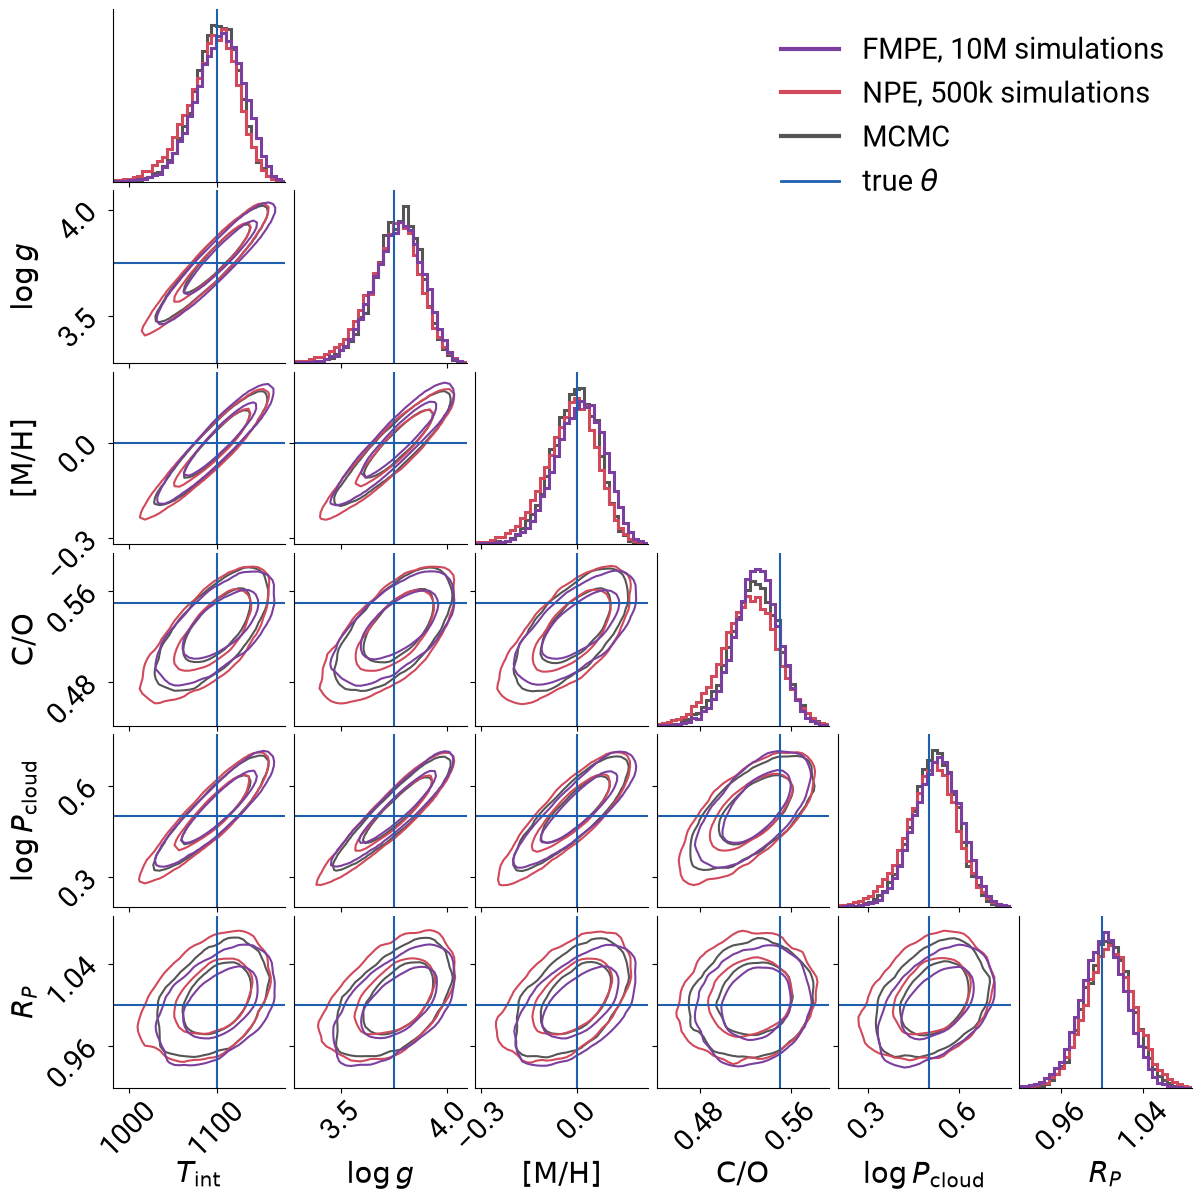
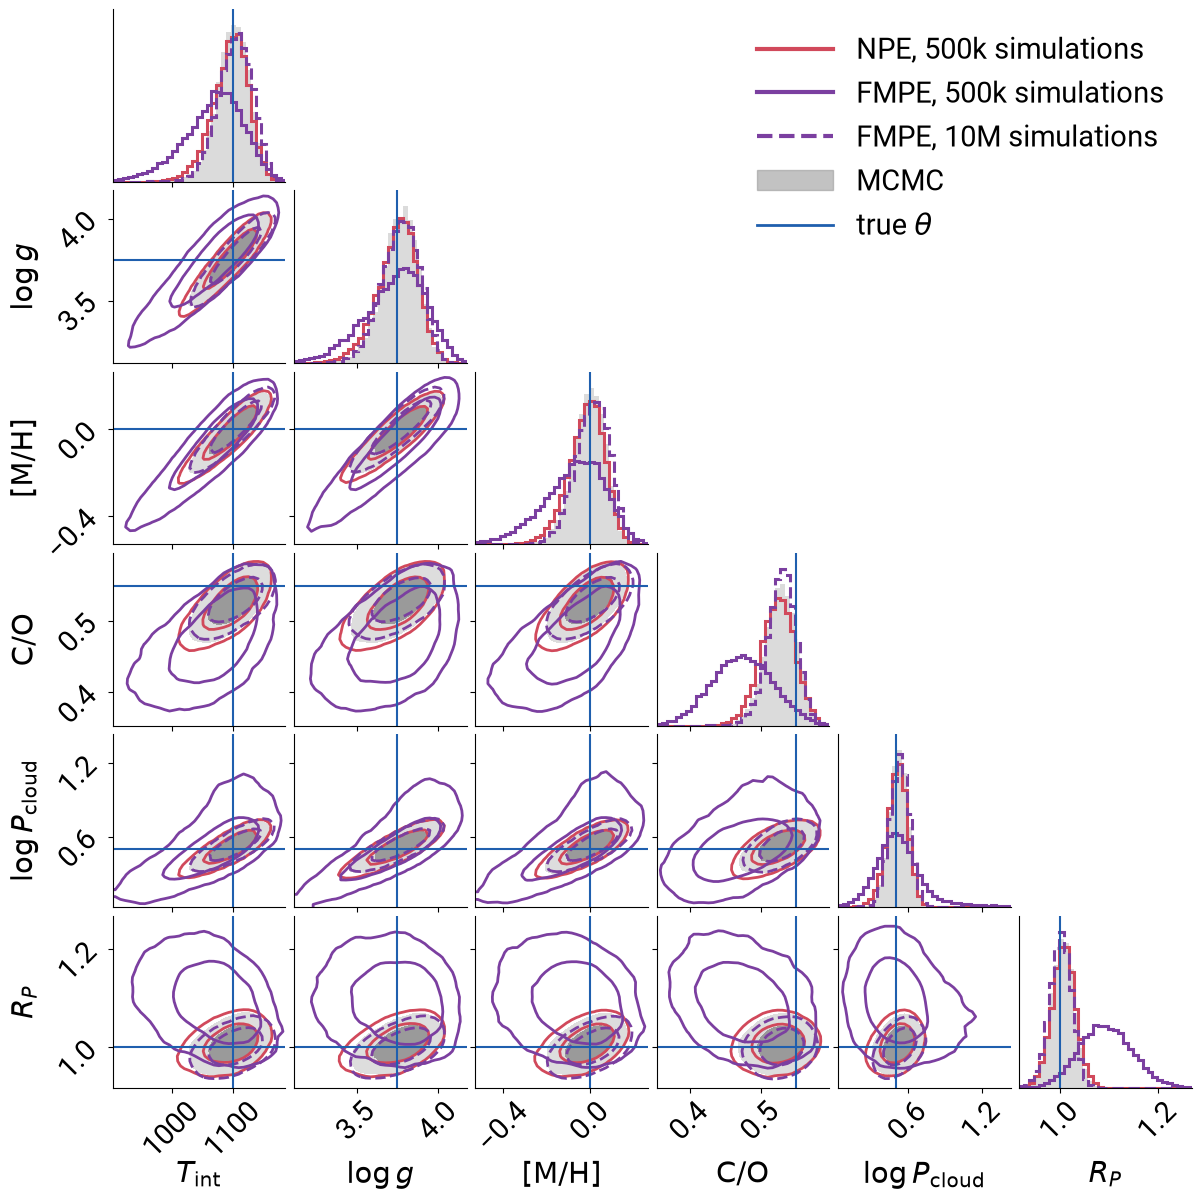
FMPE: LR setting, optional NPE-initialized/frozen embedding, optional FiLM conditioning (checkpoint-compatible)

diff --git a/tools/toy_results.py b/tools/toy_results.py
@@ -165,24 +165,32 @@ def corner_plot():
     fig.savefig("figures/toy-corner.png", dpi=100, bbox_inches="tight")
 
 
-def fmpe_corner(fmpe_dir=".render/data/fmpe/toy-10m/"):
-    """FMPE (10M simulations) against NPE (500k) and MCMC on the benchmark observation."""
+def fmpe_corner(fmpe_small=".render/data/fmpe/toy-big/", fmpe_large=".render/data/fmpe/toy-10m/",
+                npe_large=".render/data/npe-10m/"):
+    """NPE and FMPE at two simulation budgets (500k solid, 10M dashed), against MCMC (filled grey)."""
     import corner
     p = np.load(OUT + "posterior.npz")
-    fm = np.load(fmpe_dir + "fmpe_posterior.npz")
     rng = np.random.default_rng(0)
     m = np.load(OUT + "mcmc.npz")["samples"]
-    b = m[rng.choice(len(m), 20000, replace=False)]
-    a, c = p["samples"], fm["samples"]
-    lo = np.min([np.percentile(z, 0.5, 0) for z in (a, b, c)], axis=0)
-    hi = np.max([np.percentile(z, 99.5, 0) for z in (a, b, c)], axis=0)
-    rng_ = [(l - 0.1 * (h - l), h + 0.1 * (h - l)) for l, h in zip(lo, hi)]
+    mc = m[rng.choice(len(m), 20000, replace=False)]
+    runs = [(p["samples"], NPE_COL, "solid", "NPE, 500k simulations"),
+            (np.load(fmpe_small + "fmpe_posterior.npz")["samples"], FMPE_COL, "solid", "FMPE, 500k simulations")]
+    if os.path.exists(npe_large + "posterior.npz"):
+        runs.append((np.load(npe_large + "posterior.npz")["samples"], NPE_COL, "dashed", "NPE, 10M simulations"))
+    runs.append((np.load(fmpe_large + "fmpe_posterior.npz")["samples"], FMPE_COL, "dashed", "FMPE, 10M simulations"))
+    allz = [mc] + [r[0] for r in runs]
+    lo = np.min([np.percentile(z, 0.5, 0) for z in allz], axis=0)
+    hi = np.max([np.percentile(z, 99.5, 0) for z in allz], axis=0)
+    rng_ = [(l - 0.05 * (h - l), h + 0.05 * (h - l)) for l, h in zip(lo, hi)]
     plt.rcParams["font.size"] = 21
     kw = dict(bins=35, smooth=1.0, plot_datapoints=False, plot_density=False, levels=(0.68, 0.95), range=rng_,
-              labels=T.LABELS, label_kwargs={"fontsize": 21}, max_n_ticks=2, labelpad=0.12, fill_contours=False)
-    fig = corner.corner(b, color=MCMC_COL, hist_kwargs={"lw": 2.2, "density": True}, **kw)
-    corner.corner(a, color=NPE_COL, fig=fig, hist_kwargs={"lw": 2.2, "density": True}, **kw)
-    corner.corner(c, color=FMPE_COL, fig=fig, hist_kwargs={"lw": 2.2, "density": True}, **kw)
+              labels=T.LABELS, label_kwargs={"fontsize": 21}, max_n_ticks=2, labelpad=0.12)
+    fig = corner.corner(mc, color="#9a9a9a", fill_contours=True, contour_kwargs={"linewidths": 0},
+                        hist_kwargs={"lw": 0, "density": True, "histtype": "stepfilled", "alpha": 0.35}, **kw)
+    for z, col, ls, _ in runs:
+        corner.corner(z, color=col, fig=fig, fill_contours=False, no_fill_contours=True,
+                      contour_kwargs={"linestyles": ls, "linewidths": 2.0},
+                      hist_kwargs={"lw": 2.2, "density": True, "ls": "--" if ls == "dashed" else "-"}, **kw)
     n = len(T.NAMES)
     for k in range(n):
         ax = fig.axes[k * n + k]
@@ -193,11 +201,11 @@ def fmpe_corner(fmpe_dir=".render/data/fmpe/toy-10m/"):
     fig.set_size_inches(12, 12)
     for ax in fig.axes:
         ax.tick_params(labelsize=21)
-    handles = [plt.Line2D([], [], color=FMPE_COL, lw=3, label="FMPE, 10M simulations"),
-               plt.Line2D([], [], color=NPE_COL, lw=3, label="NPE, 500k simulations"),
-               plt.Line2D([], [], color=MCMC_COL, lw=3, label="MCMC"),
-               plt.Line2D([], [], color=TRUE_COL, lw=2, label=r"true $\theta$")]
-    fig.legend(handles=handles, loc="upper right", bbox_to_anchor=(0.97, 0.97), frameon=False, fontsize=21)
+    handles = [plt.Line2D([], [], color=c, lw=3, ls="--" if ls == "dashed" else "-", label=lab) for _, c, ls, lab in runs]
+    handles += [plt.matplotlib.patches.Patch(color="#9a9a9a", alpha=0.6, label="MCMC"),
+                plt.Line2D([], [], color=TRUE_COL, lw=2, label=r"true $\theta$")]
+    fig.legend(handles=handles, loc="upper right", bbox_to_anchor=(0.97, 0.97), frameon=False, fontsize=21,
+               handlelength=2.6)
     fig.savefig("figures/toy-fmpe-corner.png", dpi=100, bbox_inches="tight")
 
 

diff --git a/tools/toy_fmpe.py b/tools/toy_fmpe.py
@@ -32,6 +32,7 @@ ODE_STEPS = int(os.environ.get("ODE_STEPS", 64))
 WIDTH = int(os.environ.get("WIDTH", 512))
 DROPOUT = float(os.environ.get("DROPOUT", 0.1))
 WEIGHT_DECAY = float(os.environ.get("WEIGHT_DECAY", 1e-2))
+FILM = os.environ.get("FILM") == "1"  # condition every block on (t, h(x)), not only the input
 
 
 def build():
@@ -39,12 +40,19 @@ def build():
     import torch.nn as nn
 
     class Block(nn.Module):
-        def __init__(self, d):
+        def __init__(self, d, n_cond=0):
             super().__init__()
             self.net = nn.Sequential(nn.LayerNorm(d), nn.Linear(d, d), nn.GELU(), nn.Dropout(DROPOUT), nn.Linear(d, d))
+            self.film = nn.Linear(n_cond, 2 * d) if n_cond else None
+            if self.film is not None:  # start as the identity modulation
+                nn.init.zeros_(self.film.weight)
+                nn.init.zeros_(self.film.bias)
 
-        def forward(self, z):
-            return z + self.net(z)
+        def forward(self, z, c=None):
+            if self.film is None:
+                return z + self.net(z)
+            g, b = self.film(c).chunk(2, dim=-1)  # FiLM: the conditioning scales and shifts the normalized features
+            return z + self.net[1:](self.net[0](z) * (1 + g) + b)
 
     class FMPE(nn.Module):
         def __init__(self, n_x=94, n_theta=len(N.LO), n_emb=64, width=WIDTH, depth=4, n_freq=8):
@@ -55,7 +63,8 @@ def build():
                 nn.Linear(256, 256), nn.ELU(), nn.Linear(256, n_emb))
             self.register_buffer("freq", torch.pi * 2.0 ** torch.arange(n_freq))
             self.inp = nn.Linear(n_theta + 2 * n_freq + n_emb, width)
-            self.blocks = nn.Sequential(*[Block(width) for _ in range(depth)])
+            n_cond = 2 * n_freq + n_emb if FILM else 0
+            self.blocks = nn.ModuleList([Block(width, n_cond) for _ in range(depth)])
             self.out = nn.Sequential(nn.LayerNorm(width), nn.Linear(width, n_theta))
 
         def h(self, x):
@@ -63,8 +72,11 @@ def build():
 
         def v(self, theta_t, t, h):
             tf = t[:, None] * self.freq
-            z = torch.cat([theta_t, torch.sin(tf), torch.cos(tf), h], dim=-1)
-            return self.out(self.blocks(self.inp(z)))
+            c = torch.cat([torch.sin(tf), torch.cos(tf), h], dim=-1)
+            z = self.inp(torch.cat([theta_t, c], dim=-1))
+            for blk in self.blocks:
+                z = blk(z, c)
+            return self.out(z)
 
         def loss(self, theta1, x):
             n = len(theta1)
@@ -114,7 +126,8 @@ def load(dev="cpu"):
     return model.to(dev).eval()
 
 
-def train(epochs=int(os.environ.get("EPOCHS", 200)), batch=int(os.environ.get("BATCH", 1024)), lr=5e-4):
+def train(epochs=int(os.environ.get("EPOCHS", 200)), batch=int(os.environ.get("BATCH", 1024)),
+          lr=float(os.environ.get("LR", 5e-4))):
     import torch
     torch.manual_seed(0)
     dev = "cuda" if torch.cuda.is_available() else "cpu"
@@ -125,7 +138,14 @@ def train(epochs=int(os.environ.get("EPOCHS", 200)), batch=int(os.environ.get("B
     n = len(th)
     n_val = n // 20  # same split as NPE
     model = build().to(dev)
-    opt = torch.optim.AdamW(model.parameters(), lr=lr, weight_decay=WEIGHT_DECAY)
+    if os.environ.get("INIT_EMBED"):  # embedding taken from a trained NPE (same architecture)
+        st = torch.load(os.environ["INIT_EMBED"], weights_only=False, map_location=dev)["state"]
+        model.embed.load_state_dict({k[len("embed."):]: v for k, v in st.items() if k.startswith("embed.")})
+        if os.environ.get("FREEZE_EMBED") == "1":
+            for q in model.embed.parameters():
+                q.requires_grad_(False)
+        print("embedding from", os.environ["INIT_EMBED"], "frozen" if os.environ.get("FREEZE_EMBED") == "1" else "", flush=True)
+    opt = torch.optim.AdamW([q for q in model.parameters() if q.requires_grad], lr=lr, weight_decay=WEIGHT_DECAY)
     sched = torch.optim.lr_scheduler.CosineAnnealingLR(opt, epochs)
     log, best = [], np.inf
     for ep in range(epochs):

diff --git a/tools/toy_npe.py b/tools/toy_npe.py
@@ -120,9 +120,10 @@ def train(epochs=int(os.environ.get("EPOCHS", 60)), batch=int(os.environ.get("BA
     import torch
     torch.manual_seed(SEED)
     dev = "cuda" if torch.cuda.is_available() else "cpu"
-    d = np.load(OUT + "pairs.npz")
-    th = torch.tensor(to_unit(d["theta"]), dtype=torch.float32, device=dev)
-    f = torch.tensor(d["f"], dtype=torch.float32, device=dev)
+    theta, flux = load_pairs()  # pairs.npz, or the shards pairs-*.npz
+    th = torch.tensor(to_unit(theta), dtype=torch.float32, device=dev)
+    f = torch.tensor(flux, dtype=torch.float32, device=dev)
+    del theta, flux
     n = len(th)
     n_val = n // 20
     model = build().to(dev)
